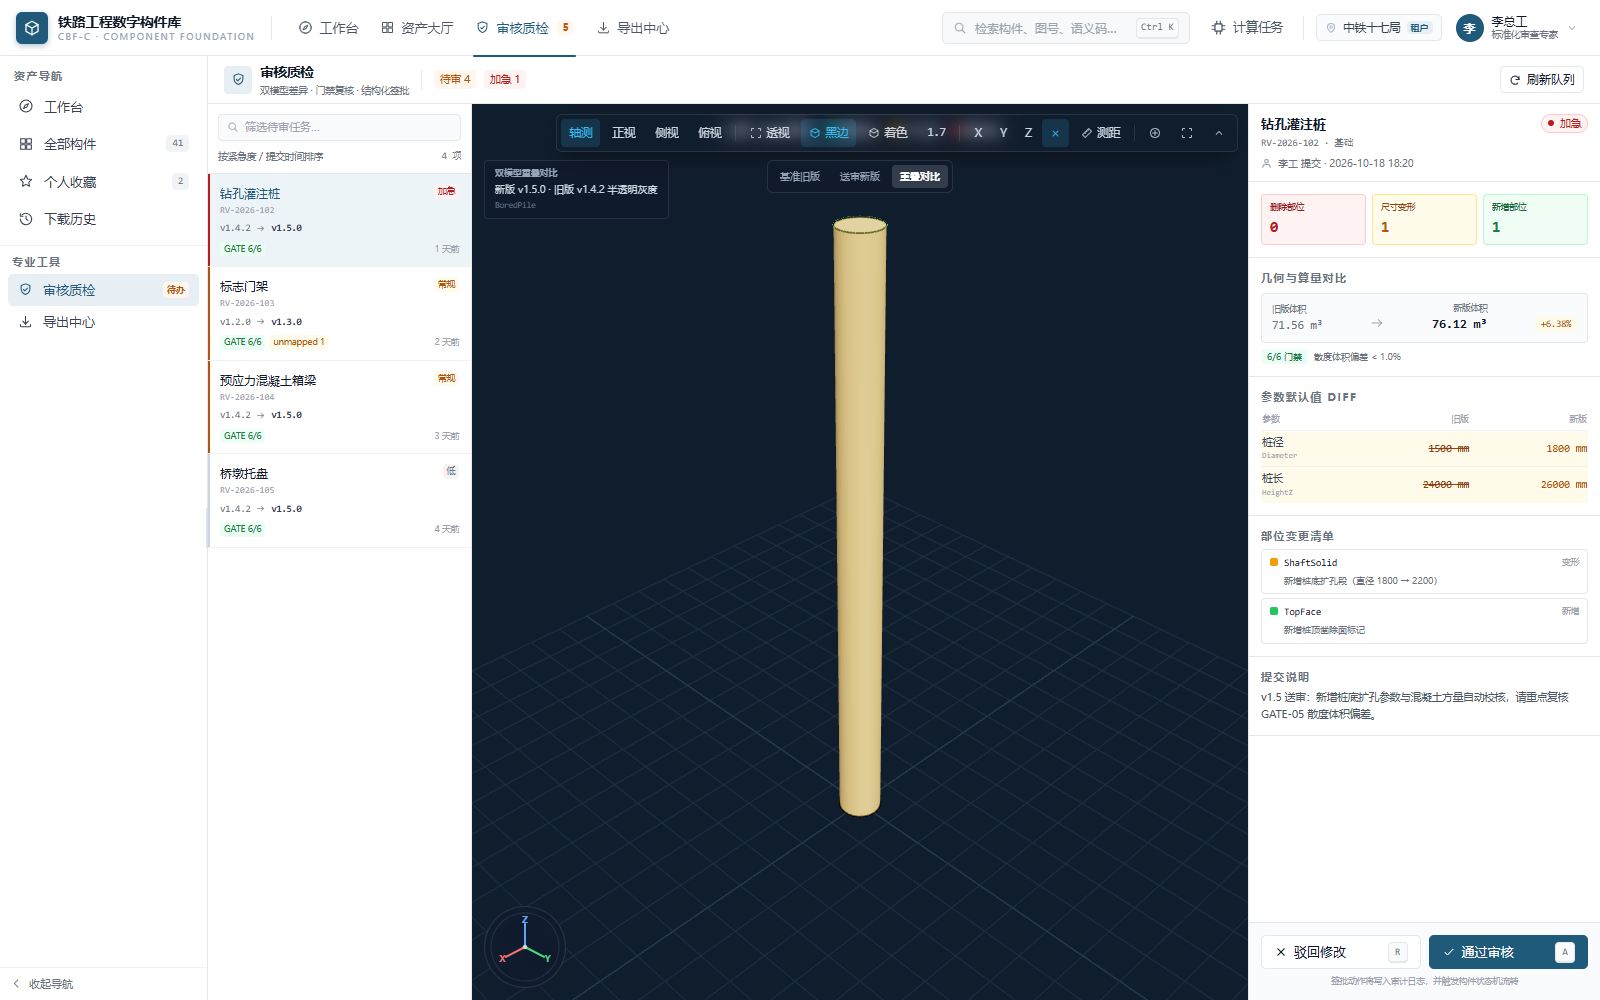
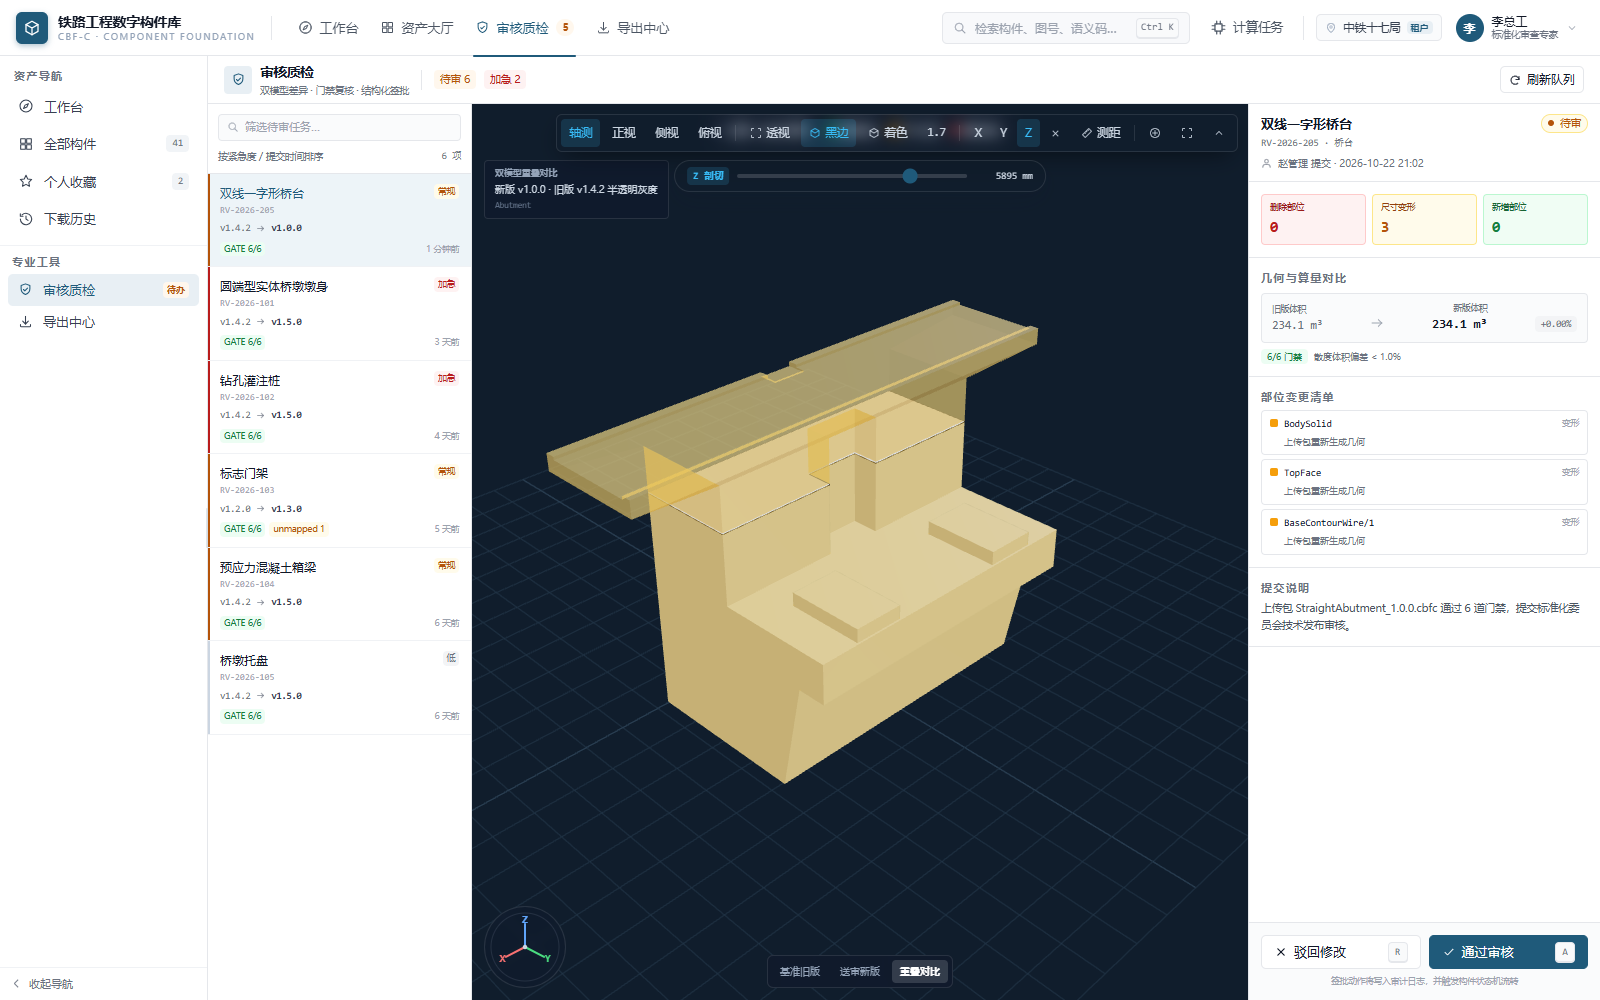
fix(cbfc-web): use real abutment geometry and separate viewport tools

diff --git a/cbfc-web/src/views/ReviewView.vue b/cbfc-web/src/views/ReviewView.vue
@@ -313,28 +313,31 @@ onBeforeUnmount(() => {
             :progress="100"
             :hud="false"
             :shape-labels="{}"
-          />
+          >
+            <template #bottom-tools>
+              <div class="pointer-events-auto flex gap-1 rounded-md border border-white/10 bg-[#0F1A2B]/90 p-1 backdrop-blur">
+                <button
+                  v-for="mode in ([
+                    { id: 'old', label: '基准旧版' },
+                    { id: 'new', label: '送审新版' },
+                    { id: 'overlay', label: '重叠对比' },
+                  ] as const)"
+                  :key="mode.id"
+                  class="rounded px-2 py-1 text-[10px] transition-colors"
+                  :class="reviewViewMode === mode.id ? 'bg-white/15 font-semibold text-white' : 'text-[#94A3B8] hover:text-white'"
+                  @click="reviewViewMode = mode.id"
+                >
+                  {{ mode.label }}
+                </button>
+              </div>
+            </template>
+          </CadViewport>
           <div class="pointer-events-none absolute left-3 top-14 z-10 rounded border border-white/10 bg-[#0F1A2B]/85 px-2.5 py-1.5 backdrop-blur">
             <p class="text-[8.5px] font-semibold uppercase tracking-wider text-[#94A3B8]">双模型重叠对比</p>
             <p class="mt-0.5 text-[10px] text-[#CBD5E1]">
               新版 v{{ current.toRevision }} · 旧版 v{{ current.fromRevision }} 半透明灰度
             </p>
             <p class="mono mt-0.5 text-[8.5px] text-[#64748B]">{{ current.familyId }}</p>
-          </div>
-          <div class="absolute left-1/2 top-14 z-20 flex -translate-x-1/2 gap-1 rounded-md border border-white/10 bg-[#0F1A2B]/90 p-1 backdrop-blur">
-            <button
-              v-for="mode in ([
-                { id: 'old', label: '基准旧版' },
-                { id: 'new', label: '送审新版' },
-                { id: 'overlay', label: '重叠对比' },
-              ] as const)"
-              :key="mode.id"
-              class="rounded px-2 py-1 text-[10px] transition-colors"
-              :class="reviewViewMode === mode.id ? 'bg-white/15 font-semibold text-white' : 'text-[#94A3B8] hover:text-white'"
-              @click="reviewViewMode = mode.id"
-            >
-              {{ mode.label }}
-            </button>
           </div>
         </template>
         <div v-else-if="geometryLoading" class="flex h-full items-center justify-center">

diff --git a/cbfc-web/server/seed.ts b/cbfc-web/server/seed.ts
@@ -525,7 +525,7 @@ const SEEDS: ComponentSeed[] = [
   },
   {
     familyId: 'Abutment',
-    name: '重力式桥台台身',
+    name: '双线一字形桥台',
     drawingCode: 'BR-ABUT-01',
     category: '桥台',
     crbim: '53-02-30',
@@ -535,10 +535,11 @@ const SEEDS: ComponentSeed[] = [
     sourceMode: 'native-brep',
     engine: 'occt-native',
     kind: 'box',
-    dims: { LengthX: 7000, WidthY: 3500, HeightZ: 8500, Taper: 0.12 },
-    tags: ['桥台', '重力式', '标准件'],
-    description: '重力式桥台台身，固定 B-Rep 设计模型，含台顶与台底命名接合面。',
-    presets: [{ modelNumber: 'BR-ABUT-G7', label: 'G7 桥台', overrides: {} }],
+    dims: { LengthX: 12600, WidthY: 5650, HeightZ: 7756, Taper: 0 },
+    tags: ['桥台', '双线一字形', '标准件'],
+    description: '双线一字形桥台，含台顶、台身、胸墙及支承垫石等命名部位。',
+    presets: [{ modelNumber: 'A4332-H8.0-D0.0', label: 'A4332 标准桥台', overrides: {} }],
+    meshFile: 'StraightAbutment.mesh.json',
     publishedAt: '2026-05-21',
     updatedAt: '2026-09-20',
     modeledBy: '李工',

diff --git a/cbfc-web/src/components/viewer/CadViewport.vue b/cbfc-web/src/components/viewer/CadViewport.vue
@@ -541,6 +541,14 @@ defineExpose({
       </div>
     </div>
 
+    <!-- 底部扩展工具（由不同页面注入，如审核模式切换） -->
+    <div
+      v-if="$slots['bottom-tools']"
+      class="pointer-events-none absolute inset-x-0 bottom-3 z-20 flex justify-center"
+    >
+      <slot name="bottom-tools" />
+    </div>
+
     <!-- HUD -->
     <div v-if="hud && decoded" class="pointer-events-none absolute right-3 z-10 flex flex-col items-end gap-1" :class="pick || measure ? 'bottom-[96px]' : 'bottom-3'">
       <div class="flex flex-wrap items-center gap-1.5 text-[9.5px]">
